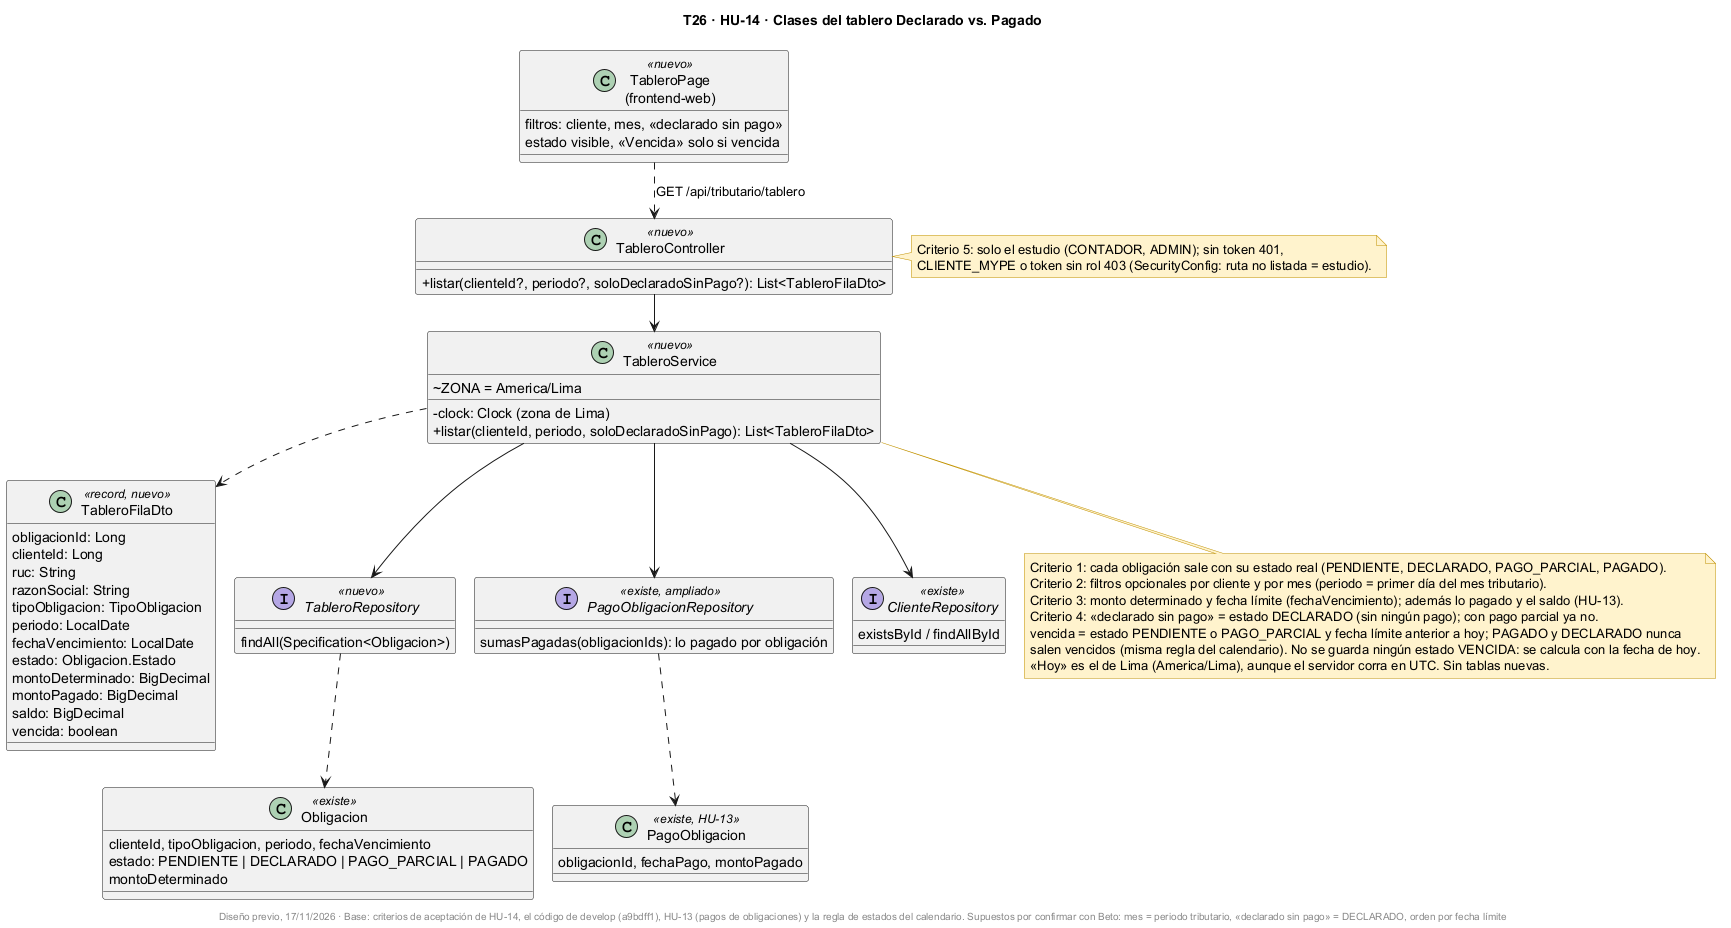
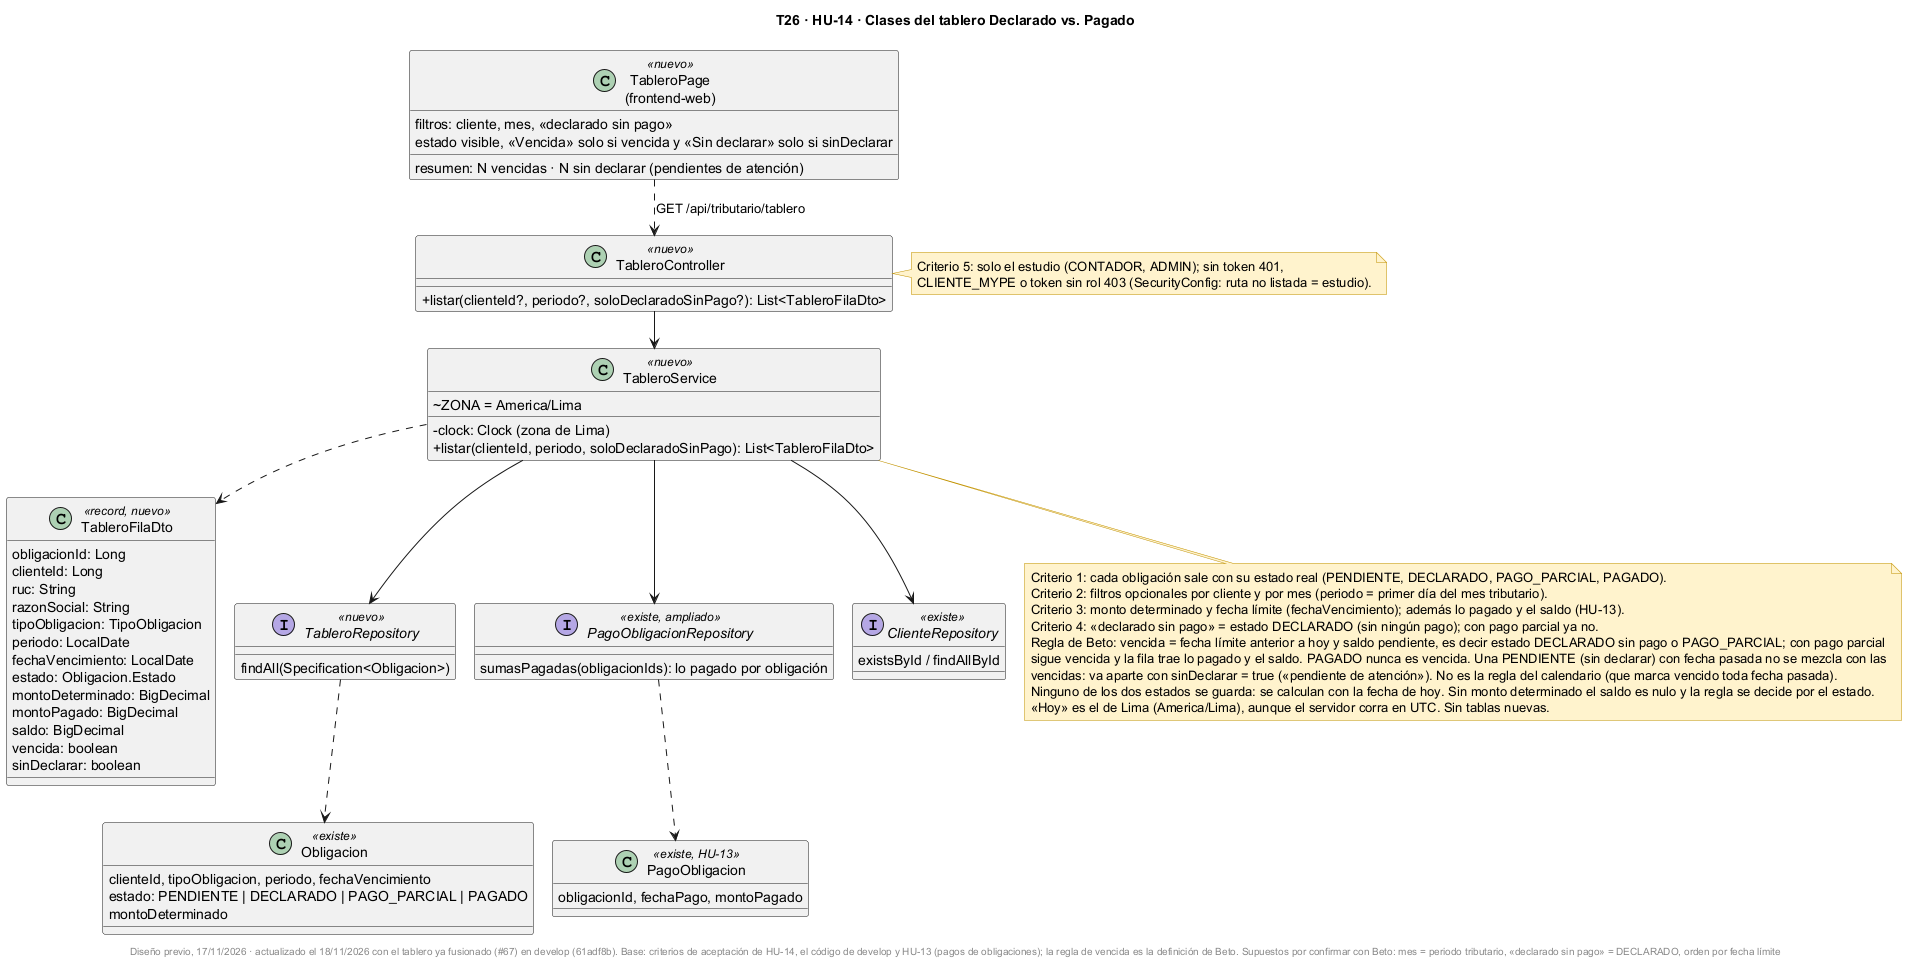
HU-14 (T26): diagramas del tablero con la regla de vencida de Beto ya fusionada: vencida con saldo pendiente y sinDeclarar aparte

Changed region(s): [[0.0, 0.5, 0.9983, 0.8125], [0.2184, 0.0, 0.8111, 0.5], [0.0312, 0.8438, 0.9359, 1.0]]

diff --git a/docs/uml/TRAZABILIDAD.md b/docs/uml/TRAZABILIDAD.md
@@ -111,7 +111,7 @@ Estos diagramas se hicieron después del código, con su rama, y el pie dice «D
 | T182 | HU-26 | [`T182-HU26-clases`](T182-HU26-clases.puml) · [png](img/T182-HU26-clases.png) · [`T182-HU26-secuencia-solicitud-especial`](T182-HU26-secuencia-solicitud-especial.puml) · [png](img/T182-HU26-secuencia-solicitud-especial.png) · [`T182-HU26-er-solicitudes-especiales`](T182-HU26-er-solicitudes-especiales.puml) · [png](img/T182-HU26-er-solicitudes-especiales.png). Actualiza el diseño previo del 07/11 (ver arriba) | `SolicitudEspecialController`, `SolicitudEspecialService`, `SolicitudEspecial`, `TipoSolicitud`, `EstadoSolicitud`, `SolicitudEspecialRepository`, `schema.sql` (`solicitudes_especiales`), `SolicitudesTab.tsx`, `solicitudService.ts`. Siguen pendientes con Beto los supuestos de T182 (tipos, fecha no anterior a hoy, descripción opcional) | `SolicitudEspecialServiceTest`, `SolicitudEspecialControllerTest`, `SolicitudEspecialPostgresTest`, `SolicitudesTab.test.tsx` |
 | T189 | HU-27 | [`T189-HU27-clases`](T189-HU27-clases.puml) · [png](img/T189-HU27-clases.png) · [`T189-HU27-secuencia-historial`](T189-HU27-secuencia-historial.puml) · [png](img/T189-HU27-secuencia-historial.png) · [`T189-HU27-er-historial`](T189-HU27-er-historial.puml) · [png](img/T189-HU27-er-historial.png) | `HistorialController`, `HistorialService`, `HistorialItemDto`, `IncidenciaService.delCliente`, `SolicitudEspecialRepository.findByClienteId`, `HistorialTab.tsx`, `incidenciaService.ts`. Sin tablas nuevas; depende de HU-26 (solicitudes) | `HistorialServiceTest`, `HistorialControllerTest`, `HistorialPostgresTest`, `HistorialTab.test.tsx` |
 | T165 | HU-24 | [`T165-HU24-clases`](T165-HU24-clases.puml) · [png](img/T165-HU24-clases.png) · [`T165-HU24-secuencia-documentos-faltantes`](T165-HU24-secuencia-documentos-faltantes.puml) · [png](img/T165-HU24-secuencia-documentos-faltantes.png) · [`T165-HU24-er-documentos-faltantes`](T165-HU24-er-documentos-faltantes.puml) · [png](img/T165-HU24-er-documentos-faltantes.png) · [`T165-HU24-actividad-documento-faltante`](T165-HU24-actividad-documento-faltante.puml) · [png](img/T165-HU24-actividad-documento-faltante.png). Actualiza el diseño previo del 07/11 | `DocumentoFaltanteController`, `DocumentoFaltanteService`, `DocumentoFaltante`, `EstadoDocumentoFaltante`, `DocumentoFaltanteDto`, `DocumentoFaltanteRepository`, `IncidenciaService.registrar`, `schema.sql` (`documentos_faltantes`), `DocumentosFaltantesTab.tsx`, `documentoFaltanteService.ts`. Siguen pendientes con Beto los supuestos de T165 (texto libre de hasta 150, fecha de solicitud hoy por defecto) | `DocumentoFaltanteServiceTest`, `DocumentoFaltanteControllerTest`, `DocumentoFaltantePostgresTest`, `DocumentosFaltantesTab.test.tsx` |
-| T26 | HU-14 | [`T26-HU14-clases`](T26-HU14-clases.puml) · [png](img/T26-HU14-clases.png) · [`T26-HU14-secuencia-tablero`](T26-HU14-secuencia-tablero.puml) · [png](img/T26-HU14-secuencia-tablero.png) | Diseño previo (17/11/2026): `TableroController`, `TableroService`, `TableroFilaDto`, `TableroRepository`, `PagoObligacionRepository` (sumas pagadas), `TableroPage.tsx`. Sin tablas nuevas, por eso no hay diagrama ER. Supuestos por confirmar con Beto: mes = periodo tributario, «declarado sin pago» = DECLARADO, orden por fecha límite | Se completará con las pruebas de HU-14 |
+| T26 | HU-14 | [`T26-HU14-clases`](T26-HU14-clases.puml) · [png](img/T26-HU14-clases.png) · [`T26-HU14-secuencia-tablero`](T26-HU14-secuencia-tablero.puml) · [png](img/T26-HU14-secuencia-tablero.png) | Diseño previo (17/11/2026), actualizado el 18/11/2026 con #67 ya fusionado en develop: `TableroController`, `TableroService.fila`, `TableroFilaDto` (con `vencida` y `sinDeclarar`), `TableroRepository`, `PagoObligacionRepository` (sumas pagadas), `TableroPage.tsx`. Regla de Beto: vencida = fecha pasada y saldo pendiente (DECLARADO sin pago o PAGO_PARCIAL); PAGADO nunca; PENDIENTE con fecha pasada aparte como `sinDeclarar`. Sin tablas nuevas, por eso no hay diagrama ER. Supuestos por confirmar con Beto: mes = periodo tributario, «declarado sin pago» = DECLARADO, orden por fecha límite | `TableroServiceTest`, `TableroIntegracionTest`, `TableroPage.test.tsx`, `tableroService.test.ts`, `tablero.test.ts` |
 | T202 | HU-33 | [`T202-HU33-clases`](T202-HU33-clases.puml) · [png](img/T202-HU33-clases.png) · [`T202-HU33-secuencia-avisos-pago`](T202-HU33-secuencia-avisos-pago.puml) · [png](img/T202-HU33-secuencia-avisos-pago.png) · [`T202-HU33-er-avisos-cliente`](T202-HU33-er-avisos-cliente.puml) · [png](img/T202-HU33-er-avisos-cliente.png) | Documentado a partir del código del PR #68 (17/11/2026) y actualizado el 18/11/2026 contra develop con #68 fusionado: `AvisoClienteProgramador`, `AvisoClienteService`, `AvisoClienteController`, `AvisoClienteDto`, `SecurityConfig`, `schema.sql` (`avisos_cliente`), `AvisosPagoTab.tsx`, `MisAvisosPage.tsx` (pantalla «Avisos de pago» del cliente, `/mis-avisos`). Días de aviso 3, 1 y 0 por confirmar con Beto; sin correo ni WhatsApp | `AvisoClientePostgresTest`, `AvisoClientePermisosTest`, `AvisosPagoTab.test.tsx`, `MisAvisosPage.test.tsx` |
 | T217 | HU-35 | [`T217-HU35-clases`](T217-HU35-clases.puml) · [png](img/T217-HU35-clases.png) · [`T217-HU35-secuencia-mi-empresa`](T217-HU35-secuencia-mi-empresa.puml) · [png](img/T217-HU35-secuencia-mi-empresa.png) | Documentado a partir del código del PR #69 (17/11/2026) y actualizado el 18/11/2026 contra develop con #69 fusionado (la redirección y el menú se deciden al renderizar): `DatosEmpresaController`, `DatosEmpresaService`, `DatosEmpresaDto`, `SecurityConfig`, `AccesoCliente`, `MiEmpresaPage.tsx`, `jwtSession.ts`, `authService.ts`, `App.tsx`, `Sidebar.tsx`. Sin tablas nuevas, por eso no hay diagrama ER | `DatosEmpresaServiceTest`, `DatosEmpresaPostgresTest`, `DatosEmpresaPermisosTest`, `MiEmpresaPage.test.tsx`, `jwtClienteId.test.ts` |
 | T232 | HU-34 | [`T232-HU34-clases`](T232-HU34-clases.puml) · [png](img/T232-HU34-clases.png) · [`T232-HU34-secuencia-sin-conexion`](T232-HU34-secuencia-sin-conexion.puml) · [png](img/T232-HU34-secuencia-sin-conexion.png) | Documentado a partir del código del PR #71 (17/11/2026) y actualizado el 18/11/2026 contra develop con #71 fusionado: `useConsultaConCache.ts`, `cacheLocal.ts`, `EstadoConexion.tsx`, `MiEmpresaPage.tsx`, `authService.ts`, `apiClient.ts`, `main.tsx`, `vite.config.ts`, `public/sw.js`. Sin cambios en el servidor ni tablas nuevas, por eso no hay diagrama ER. El service worker no se probó en un navegador real; el 401 por sesión vencida también borra la copia local y el caché del service worker lleva la versión de la compilación | `cacheLocal.test.ts`, `MiEmpresaSinConexion.test.tsx`, `apiClient.test.ts` |
